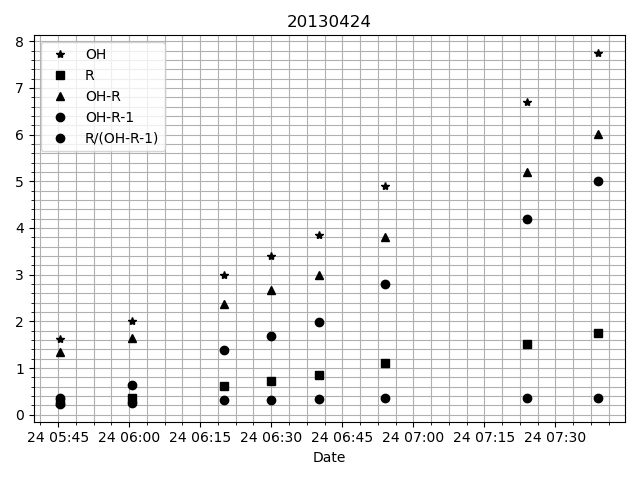
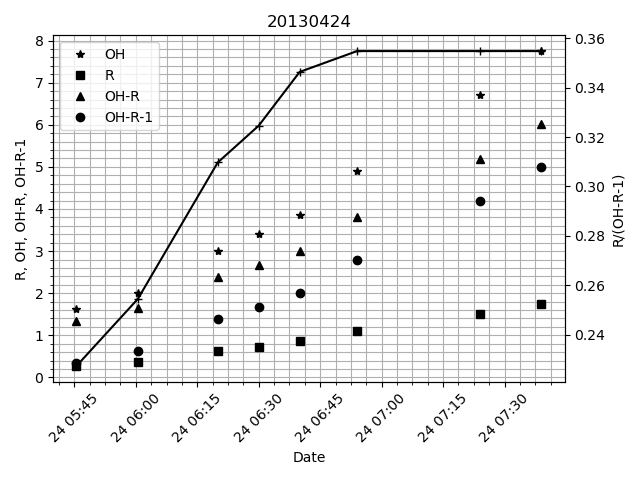
replot

Changed region(s): [[0.0, 0.0625, 1.0, 0.9688], [0.4062, 0.0312, 0.5938, 0.0625]]

diff --git a/tools/iglesias/compare_all_prop.py b/tools/iglesias/compare_all_prop.py
@@ -141,16 +141,21 @@ for cd in gcs_dates:
     plt.plot(gcs_times, oc, '^k', label='OH-R')
     ocm1 = oh -r -1
     plt.plot(gcs_times, ocm1, 'ok', label='OH-R-1')
-    roocm1 = r / h_leg
-    plt.plot(gcs_times, roocm1, 'ok', label='R/(OH-R-1)')
-    plt.plot()
+    # horizontal tick labes rotated 45 deg
+    plt.xticks(rotation=45)    
     plt.title(cd)
     plt.xlabel('Date')
-    plt.tight_layout()
+    plt.ylabel('R, OH, OH-R, OH-R-1')
     plt.minorticks_on()
     plt.tick_params('both', which='both')
     plt.grid(which='both')
     plt.legend()
+    # adds another y axis to the right
+    ax2 = plt.gca().twinx()
+    roocm1 = r / h_leg
+    ax2.plot(gcs_times, roocm1, '-+k')
+    ax2.set_ylabel('R/(OH-R-1)')
+    plt.tight_layout()   
     plt.savefig(opath+'/'+cd+'_R_OH.png')
     plt.close()
     # saves value in a .csv file
